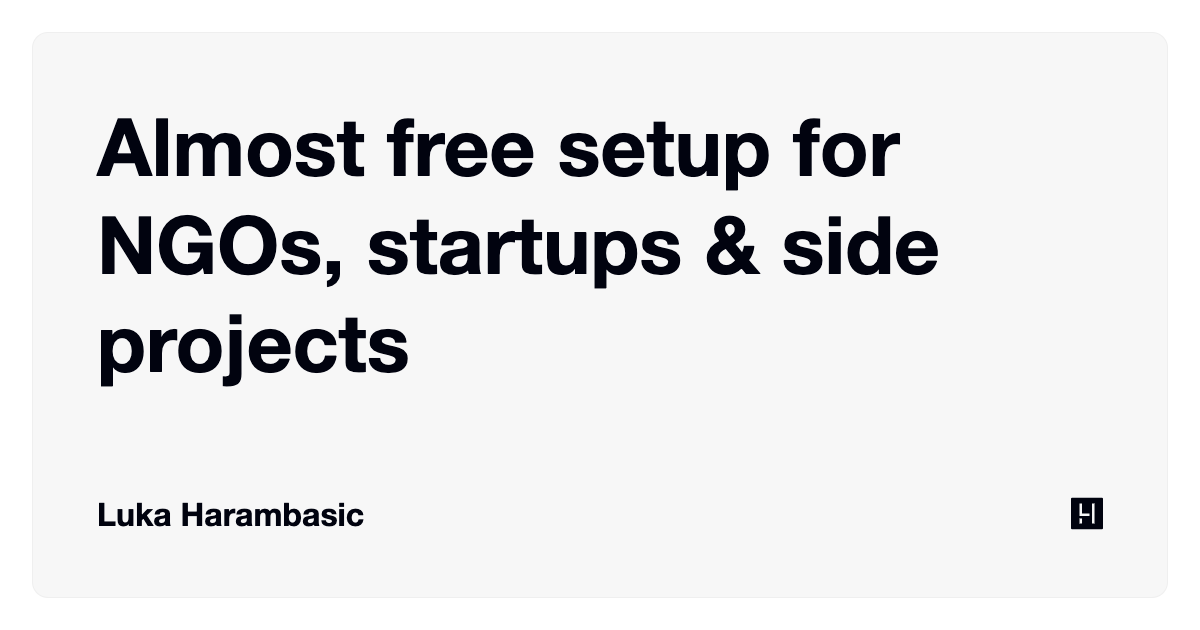
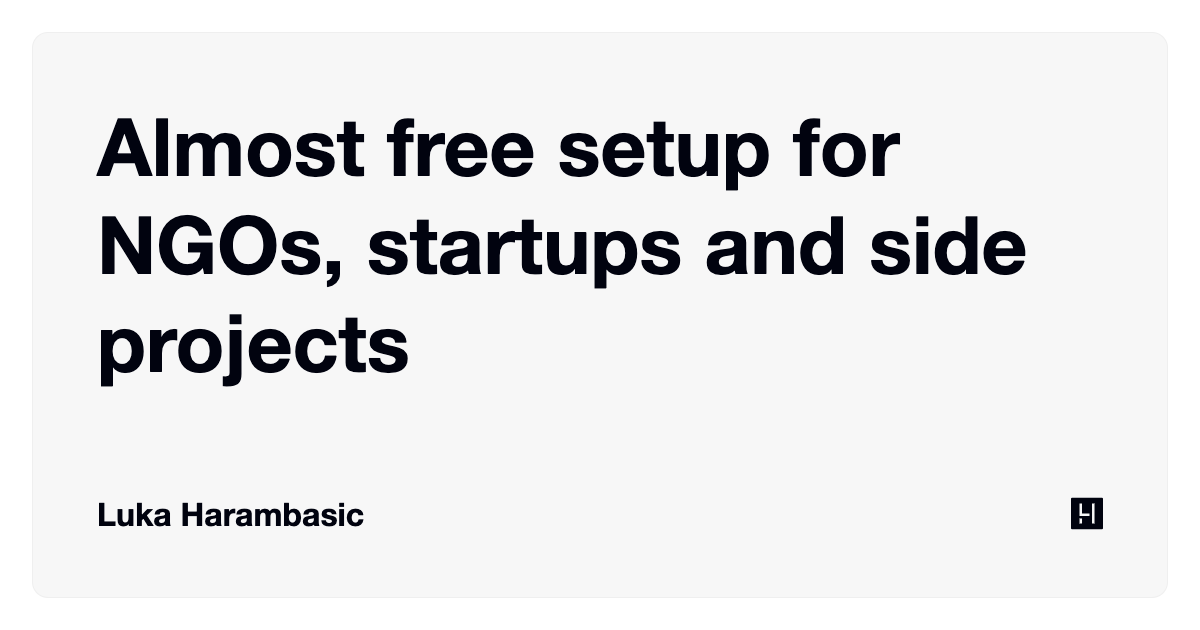
more

Changed region(s): [[0.5858, 0.3317, 0.8633, 0.4524]]

diff --git a/src/lib/components/Layout/LayoutHead.svelte b/src/lib/components/Layout/LayoutHead.svelte
@@ -11,13 +11,15 @@
   export let relativePath: string = ''
 
   let socialImgAlt: string = fullTitle
+  const slug = getSlug(title)
+  $: socialImg = permalink && slug ? `${permalink}/social/${slug}.png` : `${permalink}/social/default.png`
 
   console.log('###lh links')
   console.log(getSlug(title))
   console.log(permalink)
   console.log(relativePath)
-  console.log(`${permalink}/social/${getSlug(title)}.png`)
-  $: socialImg = `${permalink}/social/${getSlug(title)}.png` || `${permalink}/social/default.png`
+  console.log(`${permalink}/social/${slug}.png`)
+  console.log(getSlug(title))
 </script>
 
 <svelte:head>
@@ -51,3 +53,6 @@
   <meta name="twitter:image" content={socialImg} />
   <meta name="twitter:image:alt" content={socialImgAlt} />
 </svelte:head>
+
+<!-- https://v3-sveltekit--luha-sveltekit.netlify.app/social/almost-free-setup-for-ngos-startups-side-projects.png
+https://v3-sveltekit--luha-sveltekit.netlify.app/social/almost-free-setup-for-ngos-startups-and-side-projects.png -->

diff --git a/src/content/posts/almost-free-setup-for-ngos-startups-and-side-projects.md b/src/content/posts/almost-free-setup-for-ngos-startups-and-side-projects.md
@@ -1,5 +1,5 @@
 ---
-title: Almost free setup for NGOs, startups & side projects
+title: Almost free setup for NGOs, startups and side projects
 description: 'I want to inspire you how you can set up a professional working environment for your next idea with almost no money.'
 image: TODO
 published: 2020-12-09
